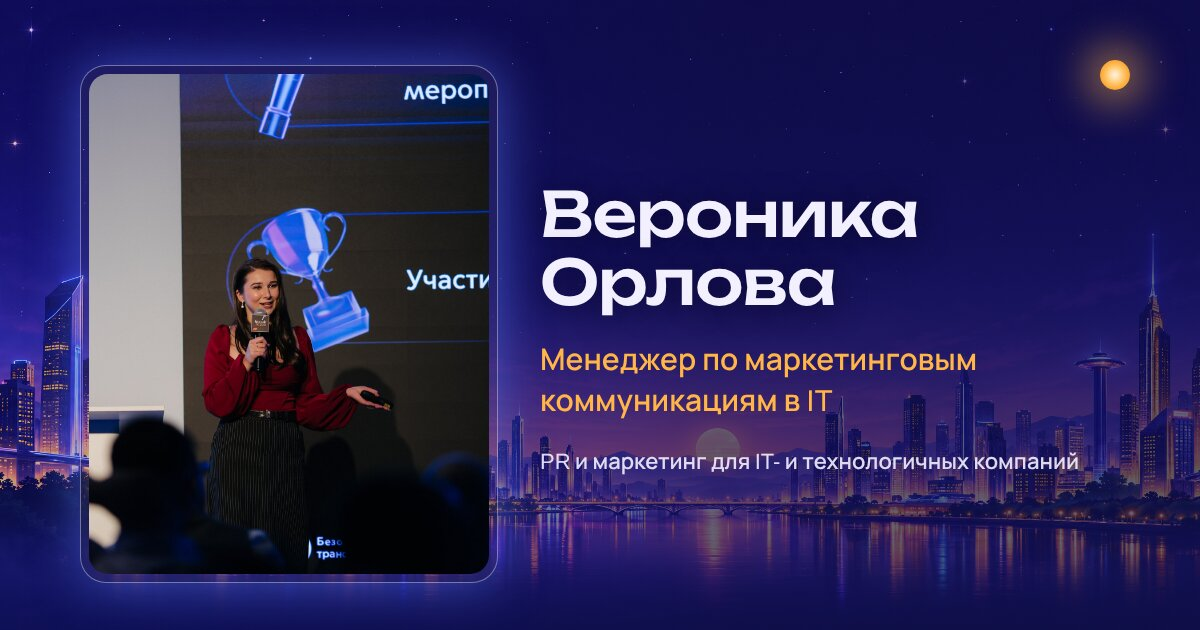
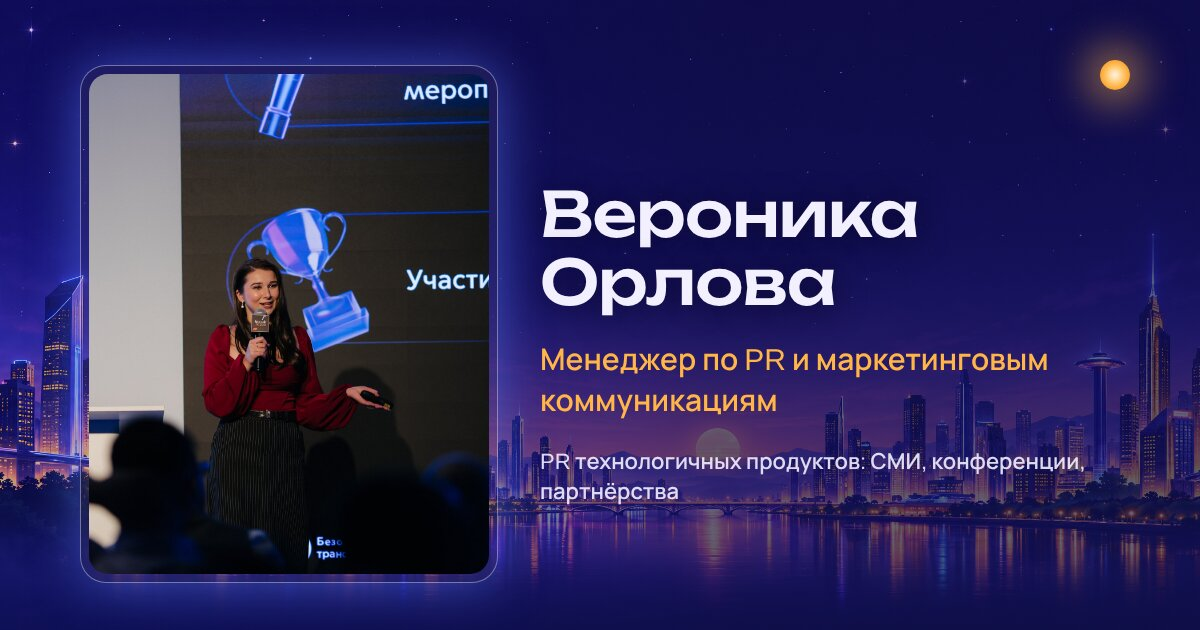
Правки v5: позиционирование кандидата, цифры как в резюме, роли и результаты кейсов, скрин РТУ МИРЭА, ссылки
Claude-Session: https://claude.ai/code/session_019qmN8mTGR1xKJhjx5bVjgt

Changed region(s): [[0.6167, 0.5429, 0.8942, 0.6635], [0.4625, 0.7238, 0.8942, 0.8143]]

diff --git a/index.html b/index.html
@@ -3,13 +3,13 @@
 <head>
 <meta charset="utf-8">
 <meta name="viewport" content="width=device-width, initial-scale=1, viewport-fit=cover">
-<title>Вероника Орлова · менеджер по маркетинговым коммуникациям в IT</title>
-<meta name="description" content="Менеджер по маркетинговым коммуникациям в IT. Помогаю IT-компаниям сделать сложный продукт понятным для клиентов и заметным на рынке: позиционирование, медиа, отраслевые конференции, партнёрства и единая воронка продаж.">
+<title>Вероника Орлова · менеджер по PR и маркетинговым коммуникациям</title>
+<meta name="description" content="Менеджер по PR и маркетинговым коммуникациям. Больше 3 лет выстраиваю PR технологичных продуктов: инфоповоды для федеральных СМИ, эксперты на отраслевых конференциях, партнёрства. Кейсы, стратегии, отзывы и контакты.">
 <meta name="theme-color" content="#1A1460">
 <meta property="og:type" content="website">
 <meta property="og:locale" content="ru_RU">
-<meta property="og:title" content="Вероника Орлова · менеджер по маркетинговым коммуникациям в IT">
-<meta property="og:description" content="Соединяю PR и маркетинг: позиционирование, воронка каналов и публикации в федеральных СМИ. Кейсы и стратегии.">
+<meta property="og:title" content="Вероника Орлова · менеджер по PR и маркетинговым коммуникациям">
+<meta property="og:description" content="Выстраиваю PR технологичных продуктов: федеральные СМИ, отраслевые конференции, партнёрства. С помощью маркетинга связываю узнаваемость с продажами.">
 <meta property="og:image" content="https://korneevlook-sketch.github.io/orlova-portfolio/assets/img/og-image.jpg">
 <meta property="og:url" content="https://korneevlook-sketch.github.io/orlova-portfolio/">
 <link rel="canonical" href="https://korneevlook-sketch.github.io/orlova-portfolio/">
@@ -21,7 +21,7 @@
 <link rel="preload" href="assets/fonts/manrope-cyrillic-400-normal.woff2" as="font" type="font/woff2" crossorigin>
 <link rel="preload" href="assets/fonts/unbounded-cyrillic-500-normal.woff2" as="font" type="font/woff2" crossorigin>
 <link rel="preload" as="image" href="assets/img/ill/hero-city-sm.webp" imagesrcset="assets/img/ill/hero-city-sm.webp 1100w, assets/img/ill/hero-city.webp 2200w" imagesizes="100vw">
-<link rel="stylesheet" href="css/style.css?v=202610201637">
+<link rel="stylesheet" href="css/style.css?v=202610241320">
 <script>document.documentElement.classList.remove('no-js')</script>
 </head>
 <body>
@@ -38,7 +38,7 @@
       <ul>
         <li><a href="#about">Обо мне</a></li>
         <li><a href="#cases">Кейсы</a></li>
-        <li><a href="#help">Как помогу</a></li>
+        <li><a href="#help">Чем буду полезна</a></li>
         <li><a href="#reviews">Отзывы</a></li>
         <li><a href="#contact">Контакты</a></li>
       </ul>
@@ -70,8 +70,8 @@
     </div>
     <div class="hero__text">
       <h1 class="hero__name" id="hero-name">Вероника Орлова</h1>
-      <p class="hero__role">Менеджер по маркетинговым коммуникациям в IT</p>
-      <p class="hero__utp">Помогаю IT-компаниям сделать сложный продукт понятным для клиентов и заметным на рынке. Выстраиваю позиционирование, рассказываю о продукте в медиа и на отраслевых конференциях, развиваю партнёрства и связываю каналы в единую воронку продаж.</p>
+      <p class="hero__role">Менеджер по PR и маркетинговым коммуникациям</p>
+      <p class="hero__utp">Больше 3 лет выстраиваю PR технологичных продуктов: нахожу инфоповоды для федеральных СМИ, вывожу экспертов на ведущие отраслевые конференции, развиваю партнёрства. С помощью маркетинга связываю узнаваемость с продажами.</p>
       <div class="hero__actions">
         <a class="btn btn--primary" href="https://t.me/orlova_nika" target="_blank" rel="noopener">Написать</a>
         <a class="btn btn--ghost" href="#cases">Смотреть кейсы</a>
@@ -87,14 +87,14 @@
     <div class="about">
       <div class="about__text">
         <ul class="figures reveal" aria-label="Коротко в цифрах">
-          <li><b>в 2 раза</b><span>больше упоминаний в СМИ за год</span></li>
-          <li><b>в 3 раза</b><span>больше выступлений экспертов за 2 года</span></li>
-          <li><b>в 3 раза</b><span>больше побед в отраслевых премиях за год</span></li>
-          <li><b>в 5 раз</b><span>больше спикеров в компании за 2 года</span></li>
+          <li><b>Каждую 6&#8209;ю</b><span>мою новость брали в Топ Дзена</span></li>
+          <li><b>в 2 раза</b><span>увеличила число упоминаний в СМИ за год</span></li>
+          <li><b>в 3 раза</b><span>увеличила число выступлений экспертов за год</span></li>
+          <li><b>в 12 раз</b><span>увеличила поток заявок на IT-стажировку за месяц</span></li>
         </ul>
         <div class="about__group reveal"><h3>PR и медиа</h3><ul class="about__list"><li>Больше 3 лет продвигаю IT-продукты и технологические проекты.</li><li>Опыт коммуникаций с B2B-, B2G- и B2C-аудиториями.</li><li>Нахожу инфоповоды в сложных данных, готовлю экспертов к выступлениям, работаю с премиями, укрепляю партнёрские отношения и сопровождаю совместные проекты.</li><li>Мои материалы выходили в ТАСС, Интерфаксе, РБК и на «России 1», а эксперты выступали на ЦИПР и Positive Hack Days.</li></ul></div>
-        <div class="about__group reveal"><h3>Управление проектами и командой</h3><ul class="about__list"><li>После ухода руководителя отдела вела PR-направление самостоятельно: готовила план работы, ставила задачи, вводила в работу новых сотрудников и распределяла зоны ответственности.</li><li>Организовала отчётное мероприятие «Инновационная столица» на 150 гостей, а на курсе WAVE вела команду из 3 человек.</li><li>Говорю на одном языке с разработчиками и дизайнерами: за годы в IT научилась разбираться в технических задачах, а также раньше сама работала графическим дизайнером.</li></ul></div>
-        <div class="about__group reveal"><h3>Маркетинг и стратегия</h3><ul class="about__list"><li>В 2026 году добавила к PR стратегический маркетинг: сделала две маркетинговые стратегии и одну бренд-стратегию.</li><li>Строю продвижение от бизнес-цели, проверяю гипотезы на исследованиях и закладываю в план только окупаемые инструменты.</li><li>Для производства контента использую AI-агентов.</li></ul></div>
+        <div class="about__group reveal"><h3>Управление проектами и командой</h3><ul class="about__list"><li>Фактически руководила PR-направлением: после ухода руководителя отдела контролировала процессы и сроки, вела аналитику, распределяла работу в команде и ввела в работу 2 новых сотрудников.</li><li>Руководила программой спикерства и запуском IT-стажировки. Организовала отчётное мероприятие «Инновационная столица 2024» на 150 гостей: 94% остались довольны, на 16 п. п. больше, чем годом ранее.</li><li>На курсе «Стратегический маркетинг» вела команду из 3 человек, и наша стратегия стала лучшей в тарифе.</li><li>Говорю на одном языке с разработчиками и дизайнерами.</li></ul></div>
+        <div class="about__group reveal"><h3>Маркетинг и стратегия</h3><ul class="about__list"><li>С июля 2026 года разрабатываю маркетинговые и бренд-стратегии и сопровождаю их внедрение.</li><li>Строю продвижение от бизнес-цели и закладываю в план только окупаемые инструменты.</li><li>Для производства контента использую AI-агентов.</li></ul></div>
       </div>
       <div class="about__photos">
         <figure class="about__photo reveal"><picture><source type="image/webp" srcset="assets/img/media/about-innovacionnaya-stolica-sm.webp 720w, assets/img/media/about-innovacionnaya-stolica.webp 1600w" sizes="(max-width:900px) 100vw, 560px"><img src="assets/img/media/about-innovacionnaya-stolica.jpg" alt="Вероника с командой на сцене отчётного мероприятия «Инновационная столица»" width="1600" height="1066" loading="lazy"></picture></figure>
@@ -135,11 +135,11 @@
         <ul class="case-list">
           <li><button type="button" class="case-tile glass" data-case="pr-data" aria-controls="pr-data" aria-expanded="false">
             <span class="case-tile__cover"><picture><source type="image/webp" srcset="assets/img/ill/case-data.webp"><img src="assets/img/ill/case-data.jpg" alt="" width="1200" height="896" loading="lazy"></picture></span>
-            <span class="case-tile__title">10 новостей в Топ Дзена: как данные о транспорте стали федеральными новостями</span>
+            <span class="case-tile__title">Каждая шестая новость в Топ Дзена: как данные о транспорте стали федеральными новостями</span>
           </button></li>
           <li><button type="button" class="case-tile glass" data-case="pr-speakers" aria-controls="pr-speakers" aria-expanded="false">
             <span class="case-tile__cover"><picture><source type="image/webp" srcset="assets/img/media/pr2-cipr-2025-panel-sm.webp"><img src="assets/img/media/pr2-cipr-2025-panel.jpg" alt="" width="1600" height="1066" loading="lazy"></picture></span>
-            <span class="case-tile__title">В 3 раза больше выступлений: как IT-эксперты вышли на ЦИПР и Positive Hack Days</span>
+            <span class="case-tile__title">С 10 до 30 выступлений в год: как IT-эксперты вышли на ЦИПР и Positive Hack Days</span>
           </button></li>
           <li><button type="button" class="case-tile glass" data-case="pr-internship" aria-controls="pr-internship" aria-expanded="false">
             <span class="case-tile__cover"><picture><source type="image/webp" srcset="assets/img/media/pr3-stazhery-sm.webp"><img src="assets/img/media/pr3-stazhery.jpg" alt="" width="1280" height="618" loading="lazy"></picture></span>
@@ -156,7 +156,7 @@
           </button></li>
           <li><button type="button" class="case-tile glass" data-case="mash" aria-controls="mash" aria-expanded="false">
             <span class="case-tile__cover"><picture><source type="image/webp" srcset="assets/img/media/cover-mash-manic-sm.webp"><img src="assets/img/media/cover-mash-manic.jpg" alt="" width="1280" height="960" loading="lazy"></picture></span>
-            <span class="case-tile__title">Первые продажи через неделю: чат-бот и воронка для онлайн-курса по маникюру</span>
+            <span class="case-tile__title">В 1,5 раза больше учениц за первую неделю: чат-бот и воронка для онлайн-курса по маникюру</span>
           </button></li>
           <li><button type="button" class="case-tile glass" data-case="press" aria-controls="press" aria-expanded="false">
             <span class="case-tile__cover"><picture><source type="image/webp" srcset="assets/img/media/cover-press-concept-sm.webp"><img src="assets/img/media/cover-press-concept.jpg" alt="" width="1600" height="1201" loading="lazy"></picture></span>
@@ -171,10 +171,10 @@
 <!-- 5. Чем я могу помочь -->
 <section class="section" id="help" aria-labelledby="help-title">
   <div class="wrap">
-    <h2 class="h2 reveal" id="help-title">Как могу помочь</h2>
+    <h2 class="h2 reveal" id="help-title">Чем буду полезна вашей команде</h2>
     <div class="help">
       <div class="help__text">
-        <p class="help__lead reveal">Конечно, всё зависит от ваших целей:</p>
+        <p class="help__lead reveal">Всё зависит от задач компании, но чаще всего я закрываю четыре запроса:</p>
         <ol class="needs" id="needs">
           <li class="need"><span class="need__dot" aria-hidden="true"></span><div><h3>Нужно, чтобы о продукте узнали</h3><p><b>Что сделаю:</b> разработаю PR-стратегию, найду инфоповоды в данных, выведу компанию в федеральные и отраслевые СМИ, подготовлю экспертов к выступлениям на конференциях, выстрою партнёрства и подам проекты на премии.</p><p class="need__duty"><b>Отвечаю за:</b> число и качество публикаций и выступлений, уровень площадок, рост упоминаний и доли брендовых запросов.</p></div></li>
           <li class="need"><span class="need__dot" aria-hidden="true"></span><div><h3>Нужно выстроить маркетинговые коммуникации</h3><p><b>Что сделаю:</b> сформулирую позиционирование, распределю роли между каналами, запущу контент и выстрою воронку от первого касания до заявки.</p><p class="need__duty"><b>Отвечаю за:</b> охваты, заявки и конверсию на каждом этапе воронки, стоимость заявки и привлечения клиента, пожизненную ценность клиента (LTV), окупаемость маркетинга.</p></div></li>
@@ -251,8 +251,8 @@
 <!-- 7. Персональная звезда + Связаться со мной -->
 <section class="finale" id="contact" aria-labelledby="finale-title" data-v="all">
   <div class="wrap">
-    <h2 class="h2 finale__title reveal" id="finale-title">Подберите план продвижения для своего бренда</h2>
-    <p class="finale__sub reveal">Выберите задачу и нажмите на звезду: покажу, какие каналы я подключу и как они приведут к результату. А в конце можно сразу обсудить план со мной.</p>
+    <h2 class="h2 finale__title reveal" id="finale-title">Что сейчас важнее для вашей компании?</h2>
+    <p class="finale__sub reveal">Выберите задачу и нажмите на звезду: покажу, какие каналы я подключу, когда приду в вашу команду. А в конце можно сразу написать мне.</p>
     <fieldset class="pills" id="finale-pills">
       <legend class="visually-hidden">Выберите, что нужнее бренду</legend>
       <label class="pill"><input type="radio" name="need" value="aware"><span>Узнаваемость</span></label>
@@ -302,7 +302,7 @@
         <li><a href="tel:+79206898949">+7 920 689-89-49</a></li>
       </ul>
       <div class="contact-card__actions">
-        <a class="btn btn--primary" href="https://t.me/orlova_nika" target="_blank" rel="noopener">Обсудить такой план в Telegram</a>
+        <a class="btn btn--primary" href="https://t.me/orlova_nika" target="_blank" rel="noopener">Обсудить работу в вашей команде</a>
       </div>
       <button class="relight" id="relight" type="button">Зажечь ещё раз</button>
     </div>
@@ -323,12 +323,12 @@
     <div class="case-panel__head"><button class="case-panel__close" type="button" data-close aria-label="Закрыть кейс">×</button></div>
     <article class="case-panel__body">
       <p class="case-meta">ГКУ ЦОДД · 2025–2026</p>
-      <h3 class="case-title" id="pr-data-title">10 новостей в Топ Дзена: как данные о транспорте стали федеральными новостями</h3>
+      <h3 class="case-title" id="pr-data-title">Каждая шестая новость в Топ Дзена: как данные о транспорте стали федеральными новостями</h3>
       <div class="star-block"><h4>С какой задачей пришёл клиент</h4><p>Каждую неделю создавать новости на основе данных, которые будут попадать в топы и привлекать внимание СМИ и жителей.</p></div>
       <div class="star-block"><h4>Исходная ситуация</h4><p>У ГКУ ЦОДД есть массивы данных о дорожной ситуации города. Их нужно превращать в публичные инфоповоды, понятные жителям Москвы.</p></div>
       <div class="star-block"><h4>Что я обнаружила</h4><p>Искала неочевидные, но интересные тренды в данных транспортных потоков.</p></div>
       <div class="star-block"><h4>Что предложила и внедрила</h4><p>Писала новости и пресс-релизы отдельно для СМИ и для жителей. Распространяла их через ключевые информагентства (ТАСС, РИА, Интерфакс и другие) и соцсети.</p></div>
-      <div class="star-block star-block--result"><h4>Результат</h4><p>10 новостей попали в Топ Дзена по теме «умный город», 16 материалов стали самыми популярными в рейтинге Департамента транспорта. 9 новостей вошли в рейтинг вице-мэров Москвы, 4 материала вышли в Telegram-канале Мэра Москвы.</p></div>
+      <div class="star-block star-block--result"><h4>Результат</h4><p>Из 60 выпущенных новостей 10 попали в Топ Дзена по теме «умный город». 16 материалов стали самыми популярными в рейтинге Департамента транспорта, 9 новостей вошли в рейтинг вице-мэров Москвы, 4 вышли в Telegram-канале Мэра Москвы.</p></div>
       <div class="star-block star-block--role"><h4>Моя роль</h4><p>Искала инфоповоды в данных, писала новости и пресс-релизы и распространяла их через информагентства и соцсети.</p></div>
 
 <div class="collage" data-gallery="pr1">
@@ -368,13 +368,13 @@
     <div class="case-panel__head"><button class="case-panel__close" type="button" data-close aria-label="Закрыть кейс">×</button></div>
     <article class="case-panel__body">
       <p class="case-meta">ИЦ «Безопасный транспорт» · 2023–2025</p>
-      <h3 class="case-title" id="pr-speakers-title">В 3 раза больше выступлений: как IT-эксперты вышли на ЦИПР и Positive Hack Days</h3>
+      <h3 class="case-title" id="pr-speakers-title">С 10 до 30 выступлений в год: как IT-эксперты вышли на ЦИПР и Positive Hack Days</h3>
       <div class="star-block"><h4>С какой задачей пришёл клиент</h4><p>Сделать экспертов Инновационного центра публичными лицами и укрепить статус организации как источника экспертного мнения.</p></div>
       <div class="star-block"><h4>Исходная ситуация</h4><p>Внутри организации сильная технологическая экспертиза, но у специалистов низкая внешняя узнаваемость. Приглашений на конференции мало.</p></div>
       <div class="star-block"><h4>Что я обнаружила</h4><p>Проанализировала ключевые компетенции экспертов: большие данные, ML, аналитические сервисы, транспортное моделирование, BI.</p></div>
       <div class="star-block"><h4>Что предложила и внедрила</h4><p>Искала и отбирала подходящие IT- и отраслевые конференции. Выстроила систему подготовки: помощь с тезисами, презентации, репетиции, проработка возможных вопросов. По итогам выступлений делала инфоповоды.</p></div>
-      <div class="star-block star-block--result"><h4>Результат</h4><p>За 2024–2025 годы эксперты выступили более 50 раз, в 3 раза больше, чем за аналогичный период. Центр привлёк нового стратегического партнёра, cloud.ru, что усилило экспертизу организации и расширило число совместных проектов. Сложилась система регулярного присутствия экспертов в публичном поле.</p></div>
-      <div class="star-block star-block--role"><h4>Моя роль</h4><p>Выбирала конференции, выстроила систему подготовки спикеров и сопровождала каждое выступление от тезисов до публикаций по итогам.</p></div>
+      <div class="star-block star-block--result"><h4>Результат</h4><p>Число выступлений выросло в 3 раза: с 10 в 2023 году до 30 в 2024-м, а всего за 2024–2025 годы их было больше 50. После выступления на ViRush 2024 центр получил премию Visiology «Гарант безопасных дорог». Центр привлёк стратегического партнёра cloud.ru, а подкаст руководителя с cloud.ru набрал больше 25 тыс. просмотров.</p></div>
+      <div class="star-block star-block--role"><h4>Моя роль</h4><p>Руководила программой спикерства: выбирала конференции, выстроила систему подготовки спикеров и сопровождала каждое выступление от тезисов до публикаций по итогам.</p></div>
 
 <h4 class="case-sub">Четыре примера выступлений</h4>
       <div class="events">
@@ -453,10 +453,11 @@
       <div class="star-block"><h4>Исходная ситуация</h4><p>Запуск нового направления стажировки «Обучение ML-моделей» с нуля. Целевая аудитория: студенты IT-специальностей.</p></div>
       <div class="star-block"><h4>Что предложила и внедрила</h4><p>Разработала концепцию продвижения и упаковку проекта: название, визуальный стиль, ключевые сообщения. Сделала серию контента: интервью с наставниками-экспертами по ML, посты о содержании программы и карьерных перспективах. Договорилась о партнёрских публикациях в студенческих и IT-сообществах.</p></div>
       <div class="star-block star-block--result"><h4>Результат</h4><p>102 заявки за 1 месяц в 2025 году. Для сравнения: за весь 2024 год по всем программам стажировок было 100 заявок. До конца стажировки дошли 89% студентов.</p></div>
-      <div class="star-block star-block--role"><h4>Моя роль</h4><p>Разработала концепцию продвижения, упаковку и контент стажировки, договорилась о партнёрских публикациях.</p></div>
+      <div class="star-block star-block--role"><h4>Моя роль</h4><p>Руководила запуском стажировки: вместе с экспертами упаковала программу, разработала концепцию продвижения и контент, договорилась о публикациях в каналах ведущих вузов Москвы.</p></div>
 
-<div class="collage collage--photos" data-gallery="pr3">
-        <figure class="shot" style="--r:-2deg;grid-column:1/-1;max-width:640px"><button type="button" class="shot__btn" data-full="assets/img/media/pr3-stazhery.webp"><picture><source type="image/webp" srcset="assets/img/media/pr3-stazhery-sm.webp 720w, assets/img/media/pr3-stazhery.webp 1280w" sizes="640px"><img src="assets/img/media/pr3-stazhery.jpg" alt="Стажёры Инновационного центра на общем фото" width="1280" height="618" loading="lazy"></picture></button></figure>
+<div class="collage collage--photos collage--pr3" data-gallery="pr3">
+        <figure class="shot shot--wide" style="--r:-2deg"><button type="button" class="shot__btn" data-full="assets/img/media/pr3-stazhery.webp"><picture><source type="image/webp" srcset="assets/img/media/pr3-stazhery-sm.webp 720w, assets/img/media/pr3-stazhery.webp 1280w" sizes="640px"><img src="assets/img/media/pr3-stazhery.jpg" alt="Стажёры Инновационного центра на общем фото" width="1280" height="618" loading="lazy"></picture></button></figure>
+        <figure class="shot shot--phone" style="--r:2deg"><button type="button" class="shot__btn" data-full="assets/img/media/pr3-post-rtu-mirea.webp"><picture><source type="image/webp" srcset="assets/img/media/pr3-post-rtu-mirea-sm.webp"><img src="assets/img/media/pr3-post-rtu-mirea.jpg" alt="Скрин поста: анонс стажировки «Обучи свою ML-модель!» в Telegram-канале РТУ МИРЭА" width="590" height="1280" loading="lazy"></picture></button><figcaption>Анонс стажировки в Telegram-канале РТУ МИРЭА (27 тыс. подписчиков)</figcaption></figure>
       </div>
     </article>
   </div>
@@ -490,7 +491,7 @@
           <li><b>Посчитала бюджет и план.</b> Определили тестовый бюджет. Платные каналы при необходимости подключаем по одному и только когда предыдущий окупился. Итог: план на 15 месяцев с дорожной картой и KPI на первые три месяца.</li>
         </ul>
       </div>
-      <div class="star-block star-block--result"><h4>Результат</h4><p>Защита прошла успешно: Елена была тронута до слез, потому что стратегия попала точно в смыслы бренда. Сейчас мы на этапе реализации.</p></div>
+      <div class="star-block star-block--result"><h4>Результат</h4><p>Стратегию защитила успешно, с октября 2026 года сопровождаю внедрение: передала клиенту план переупаковки сайта и соцсетей.</p></div>
       <div class="star-block star-block--role"><h4>Моя роль</h4><p>Сделала стратегию одна, сейчас сопровождаю внедрение.</p></div>
 
 <div class="collage" data-gallery="elena">
@@ -501,6 +502,10 @@
         <figure class="shot" style="--r:-4deg"><button type="button" class="shot__btn" data-full="assets/img/media/elena-slide-5-besplatnoe-prodvizhenie.webp"><picture><source type="image/webp" srcset="assets/img/media/elena-slide-5-besplatnoe-prodvizhenie-sm.webp"><img src="assets/img/media/elena-slide-5-besplatnoe-prodvizhenie.jpg" alt="Слайд: четыре варианта бесплатного продвижения" width="1512" height="847" loading="lazy"></picture></button><figcaption>Бесплатное продвижение</figcaption></figure>
         <figure class="shot" style="--r:2.5deg"><button type="button" class="shot__btn" data-full="assets/img/media/elena-slide-6-kpi-biznes.webp"><picture><source type="image/webp" srcset="assets/img/media/elena-slide-6-kpi-biznes-sm.webp"><img src="assets/img/media/elena-slide-6-kpi-biznes.jpg" alt="Слайд: KPI теста по бизнес-показателям, значения скрыты" width="1513" height="851" loading="lazy"></picture></button><figcaption>KPI</figcaption></figure>
       </div>
+      <p class="tickets-group">Ссылки</p>
+      <ul class="tickets">
+        <li><a class="ticket" href="https://psyvasileva.ru" target="_blank" rel="noopener"><span class="ticket__src">Сайт Елены</span><span class="ticket__title">psyvasileva.ru</span></a></li>
+      </ul>
     </article>
   </div>
 </div>
@@ -512,7 +517,7 @@
     <div class="case-panel__head"><button class="case-panel__close" type="button" data-close aria-label="Закрыть кейс">×</button></div>
     <article class="case-panel__body">
       <p class="case-meta">Маркетинговая стратегия · реальный клиент · июль–август 2026</p>
-      <h3 class="case-title" id="mash-title">Первые продажи через неделю: чат-бот и воронка для онлайн-курса по маникюру</h3>
+      <h3 class="case-title" id="mash-title">В 1,5 раза больше учениц за первую неделю: чат-бот и воронка для онлайн-курса по маникюру</h3>
       <div class="star-block"><h4>С какой задачей пришёл клиент</h4><p>Привлечь 60–80 учениц за 4 месяца и вырастить YouTube-канал до 100 тыс. подписчиков.</p></div>
       <div class="star-block"><h4>Исходная ситуация</h4><p>Мастер маникюра Мария Иванова (Mash_manic) планирует продавать онлайн-курс для новичков: привлекать учениц через YouTube и TikTok, а продавать в Telegram-канале и чат-боте.</p></div>
       <div class="star-block"><h4>Что я обнаружила</h4>
@@ -532,7 +537,7 @@
           <li><b>Перешла к внедрению.</b> Перезапустила чат-бот под бюджет клиента: нашла дата-инженера, расписала сценарии, подключили аналитику. Запустила закрытый чат сообщества для мастеров маникюра.</li>
         </ul>
       </div>
-      <div class="star-block star-block--result"><h4>Результат</h4><p>Первая неделя после запуска YouTube-воронки (7–14 октября): 5 мастеров прислали работы на проверку через бот, 1 купила курс, ещё 1 оплатила вступление в сообщество.</p></div>
+      <div class="star-block star-block--result"><h4>Результат</h4><p>За первую неделю после запуска воронки (7–14 октября 2026) учениц на курсе стало 6 вместо 4, 6 мастеров воспользовались лид-магнитом и прислали работы на разбор через бот, 1 оплатила вступление в сообщество. За время работы YouTube-канал вырос с 900 до 1 200 подписчиков.</p></div>
       <div class="star-block star-block--role"><h4>Моя роль</h4><p>Сделала стратегию и вела внедрение: перезапуск чат-бота с дата-инженером и запуск закрытого чата сообщества.</p></div>
 
 <div class="collage" data-gallery="mash">
@@ -547,6 +552,11 @@
         <div class="phone"><video muted loop playsinline preload="none" poster="assets/video/mash-chatbot-poster.jpg" data-src="assets/video/mash-chatbot.mp4" data-src-webm="assets/video/mash-chatbot.webm" aria-label="Запись экрана: чат-бот Mash_manic в Telegram"></video></div>
         <p>Новый чат-бот Mash_manic, который я перезапустила вместе с дата-инженером. Через него мастера присылают работы на проверку, покупают курс и подписку в закрытое сообщество мастеров.</p>
       </div>
+      <p class="tickets-group">Ссылки</p>
+      <ul class="tickets">
+        <li><a class="ticket" href="https://youtube.com/@mash_manic" target="_blank" rel="noopener"><span class="ticket__src">YouTube</span><span class="ticket__title">Канал Mash_manic</span></a></li>
+        <li><a class="ticket" href="https://t.me/mash_manic_bot" target="_blank" rel="noopener"><span class="ticket__src">Telegram</span><span class="ticket__title">Чат-бот @mash_manic_bot</span></a></li>
+      </ul>
     </article>
   </div>
 </div>
@@ -559,7 +569,7 @@
     <article class="case-panel__body">
       <p class="case-meta">Маркетинговая стратегия · учебный проект курса «Стратегический маркетинг», WAVE Academy · март–май 2026</p>
       <h3 class="case-title" id="press-title">Лучшая стратегия в тарифе: как привлечь гостей кафе на мастер-классы</h3>
-      <div class="star-block"><h4>С какой задачей пришёл клиент</h4><p>Увеличить выручку с мастер-классов в 4 раза к июлю 2026 года: привлечь в пространство больше гостей, перевести покупателей парфюмерии и гостей кафе в участников мастер-классов.</p></div>
+      <div class="star-block"><h4>С какой задачей пришёл клиент</h4><p>Увеличить выручку с мастер-классов в 5 раз к июлю 2026 года: привести в пространство больше гостей и привлечь на мастер-классы покупателей парфюмерии и гостей кафе.</p></div>
       <div class="star-block"><h4>Исходная ситуация</h4><p>Press Concept: гастро-пространство парфюмерного дома, где можно пообедать в кафе, выбрать аромат и прийти на мастер-класс по созданию парфюма. Новых гостей привлекали в основном публикации блогеров о пространстве (UGC). Сайт по SEO почти не работал, а соцсети показывали все услуги сразу, гостю было непонятно, зачем приходить.</p></div>
       <div class="star-block"><h4>Что я обнаружила</h4>
         <ul class="actions-list">
@@ -605,6 +615,6 @@
   <button class="lb-btn lb-next" type="button" aria-label="Следующее изображение">›</button>
 </div>
 
-<script src="js/main.js?v=202610201637" defer></script>
+<script src="js/main.js?v=202610241320" defer></script>
 </body>
 </html>

diff --git a/css/style.css b/css/style.css
@@ -120,7 +120,8 @@ section{position:relative}
 .about{display:grid;grid-template-columns:minmax(0,7fr) minmax(0,5fr);gap:48px;align-items:start}
 .about__text{display:flex;flex-direction:column;gap:18px;min-width:0}
 .figures{display:grid;grid-template-columns:repeat(4,minmax(0,1fr));gap:16px;margin:0 0 6px;padding:0 0 26px;list-style:none;border-bottom:1px solid var(--line)}
-.figures b{display:block;font-weight:700;font-size:clamp(26px,2.9vw,36px);line-height:1.05;color:var(--amber);white-space:nowrap}
+.figures b{display:block;font-weight:700;font-size:clamp(22px,2.3vw,30px);line-height:1.1;color:var(--amber)}
+.figures li{min-width:0}
 .figures span{display:block;margin-top:8px;font-size:15px;line-height:1.35;color:var(--text-2)}
 .about__group h3,.need h3{margin:0 0 8px;font-family:var(--serif);font-weight:500;font-size:clamp(19px,2vw,23px);letter-spacing:-.01em;line-height:1.3}
 .about__group{padding:24px 26px;border:1px solid var(--line-hi);border-radius:var(--r);background:rgba(18,16,64,.45)}
@@ -251,9 +252,12 @@ section{position:relative}
 .shot__btn img{width:100%;height:auto;border-radius:7px;max-height:340px;object-fit:cover;object-position:top}
 .shot figcaption{font-size:13.5px;line-height:1.4;color:var(--text-2);margin-top:10px;padding:0 4px}
 .collage--photos .shot__btn{background:rgba(255,255,255,.9)}
+.collage--pr3{grid-template-columns:minmax(0,2fr) minmax(0,1fr);align-items:start;max-width:820px}
+.shot--phone .shot__btn{background:linear-gradient(160deg,#2a2470,#100c40);padding:7px;border-radius:26px;border:1px solid var(--line-hi);box-shadow:0 0 30px rgba(91,124,255,.3)}
+.shot--phone .shot__btn img{border-radius:20px;max-height:none;object-fit:contain}
 .collage--end{grid-template-columns:repeat(auto-fill,minmax(260px,1fr))}
 .collage--end .shot__btn img{aspect-ratio:3/2;max-height:none;object-fit:cover;object-position:50% 30%}
-@media (max-width:560px){.collage{grid-template-columns:1fr 1fr;gap:18px 4px}.shot figcaption{font-size:12.5px}}
+@media (max-width:560px){.collage--pr3{grid-template-columns:1fr 1fr}.collage--pr3 .shot--wide{grid-column:1/-1}.collage--pr3 .shot--phone{grid-column:1/-1;max-width:220px;justify-self:center}.collage{grid-template-columns:1fr 1fr;gap:18px 4px}.shot figcaption{font-size:12.5px}}
 
 /* Билетики-ссылки */
 .tickets{display:flex;flex-direction:column;gap:10px;margin:8px 0 0;padding:0;list-style:none}
